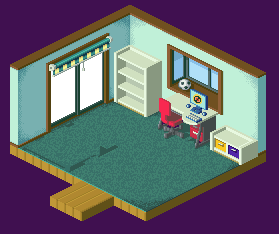
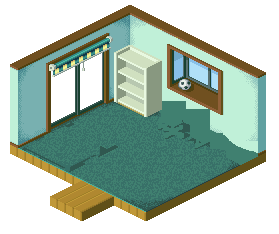
fixes to lans room

diff --git a/assets/tiles/LansBed.tsx b/assets/tiles/LansBed.tsx
@@ -1,12 +1,5 @@
 <?xml version="1.0" encoding="UTF-8"?>
-<tileset version="1.8" tiledversion="1.8.6" name="LansBed" tilewidth="82" tileheight="74" tilecount="2" columns="1" objectalignment="bottomleft">
- <tileoffset x="82" y="39"/>
+<tileset version="1.8" tiledversion="1.8.6" name="LansBed" tilewidth="82" tileheight="74" tilecount="1" columns="1" objectalignment="bottomleft">
+ <tileoffset x="41" y="43"/>
  <image source="LansBed.png" width="82" height="74"/>
- <tile id="0">
-  <objectgroup draworder="index" id="2">
-   <object id="1" x="53" y="73">
-    <polygon points="0,4 32,-13 -30,-44 -60,-29"/>
-   </object>
-  </objectgroup>
- </tile>
 </tileset>

diff --git a/assets/tiles/LansComp.tsx b/assets/tiles/LansComp.tsx
@@ -1,6 +1,6 @@
 <?xml version="1.0" encoding="UTF-8"?>
-<tileset version="1.8" tiledversion="1.8.6" name="LansComp" tilewidth="22" tileheight="34" tilecount="3" columns="3">
- <image source="C:/Users/Clevettes/Desktop/BN3RealWorld/assets/tiles/LansComp.png" width="66" height="34"/>
+<tileset version="1.8" tiledversion="1.8.6" name="LansComp" tilewidth="22" tileheight="34" tilecount="3" columns="3" objectalignment="center">
+ <image source="LansComp.png" width="66" height="34"/>
  <tile id="0">
   <animation>
    <frame tileid="0" duration="200"/>

diff --git a/assets/tiles/LansDrawer.tsx b/assets/tiles/LansDrawer.tsx
@@ -1,0 +1,12 @@
+<?xml version="1.0" encoding="UTF-8"?>
+<tileset version="1.8" tiledversion="1.8.6" name="LansDrawer" tilewidth="47" tileheight="45" tilecount="1" columns="1" objectalignment="bottomright">
+ <tileoffset x="47" y="8"/>
+ <image source="LansDrawer.png" width="47" height="45"/>
+ <tile id="0">
+  <objectgroup draworder="index" id="2">
+   <object id="1" x="30" y="45">
+    <polygon points="0,0 17,-9 -15,-26 -30,-16"/>
+   </object>
+  </objectgroup>
+ </tile>
+</tileset>

diff --git a/assets/tiles/LansDesk.tsx b/assets/tiles/LansDesk.tsx
@@ -1,0 +1,5 @@
+<?xml version="1.0" encoding="UTF-8"?>
+<tileset version="1.8" tiledversion="1.8.6" name="LansDesk" tilewidth="60" tileheight="65" tilecount="1" columns="1" objectalignment="bottomleft">
+ <tileoffset x="0" y="60"/>
+ <image source="LansDesk.png" width="60" height="65"/>
+</tileset>
